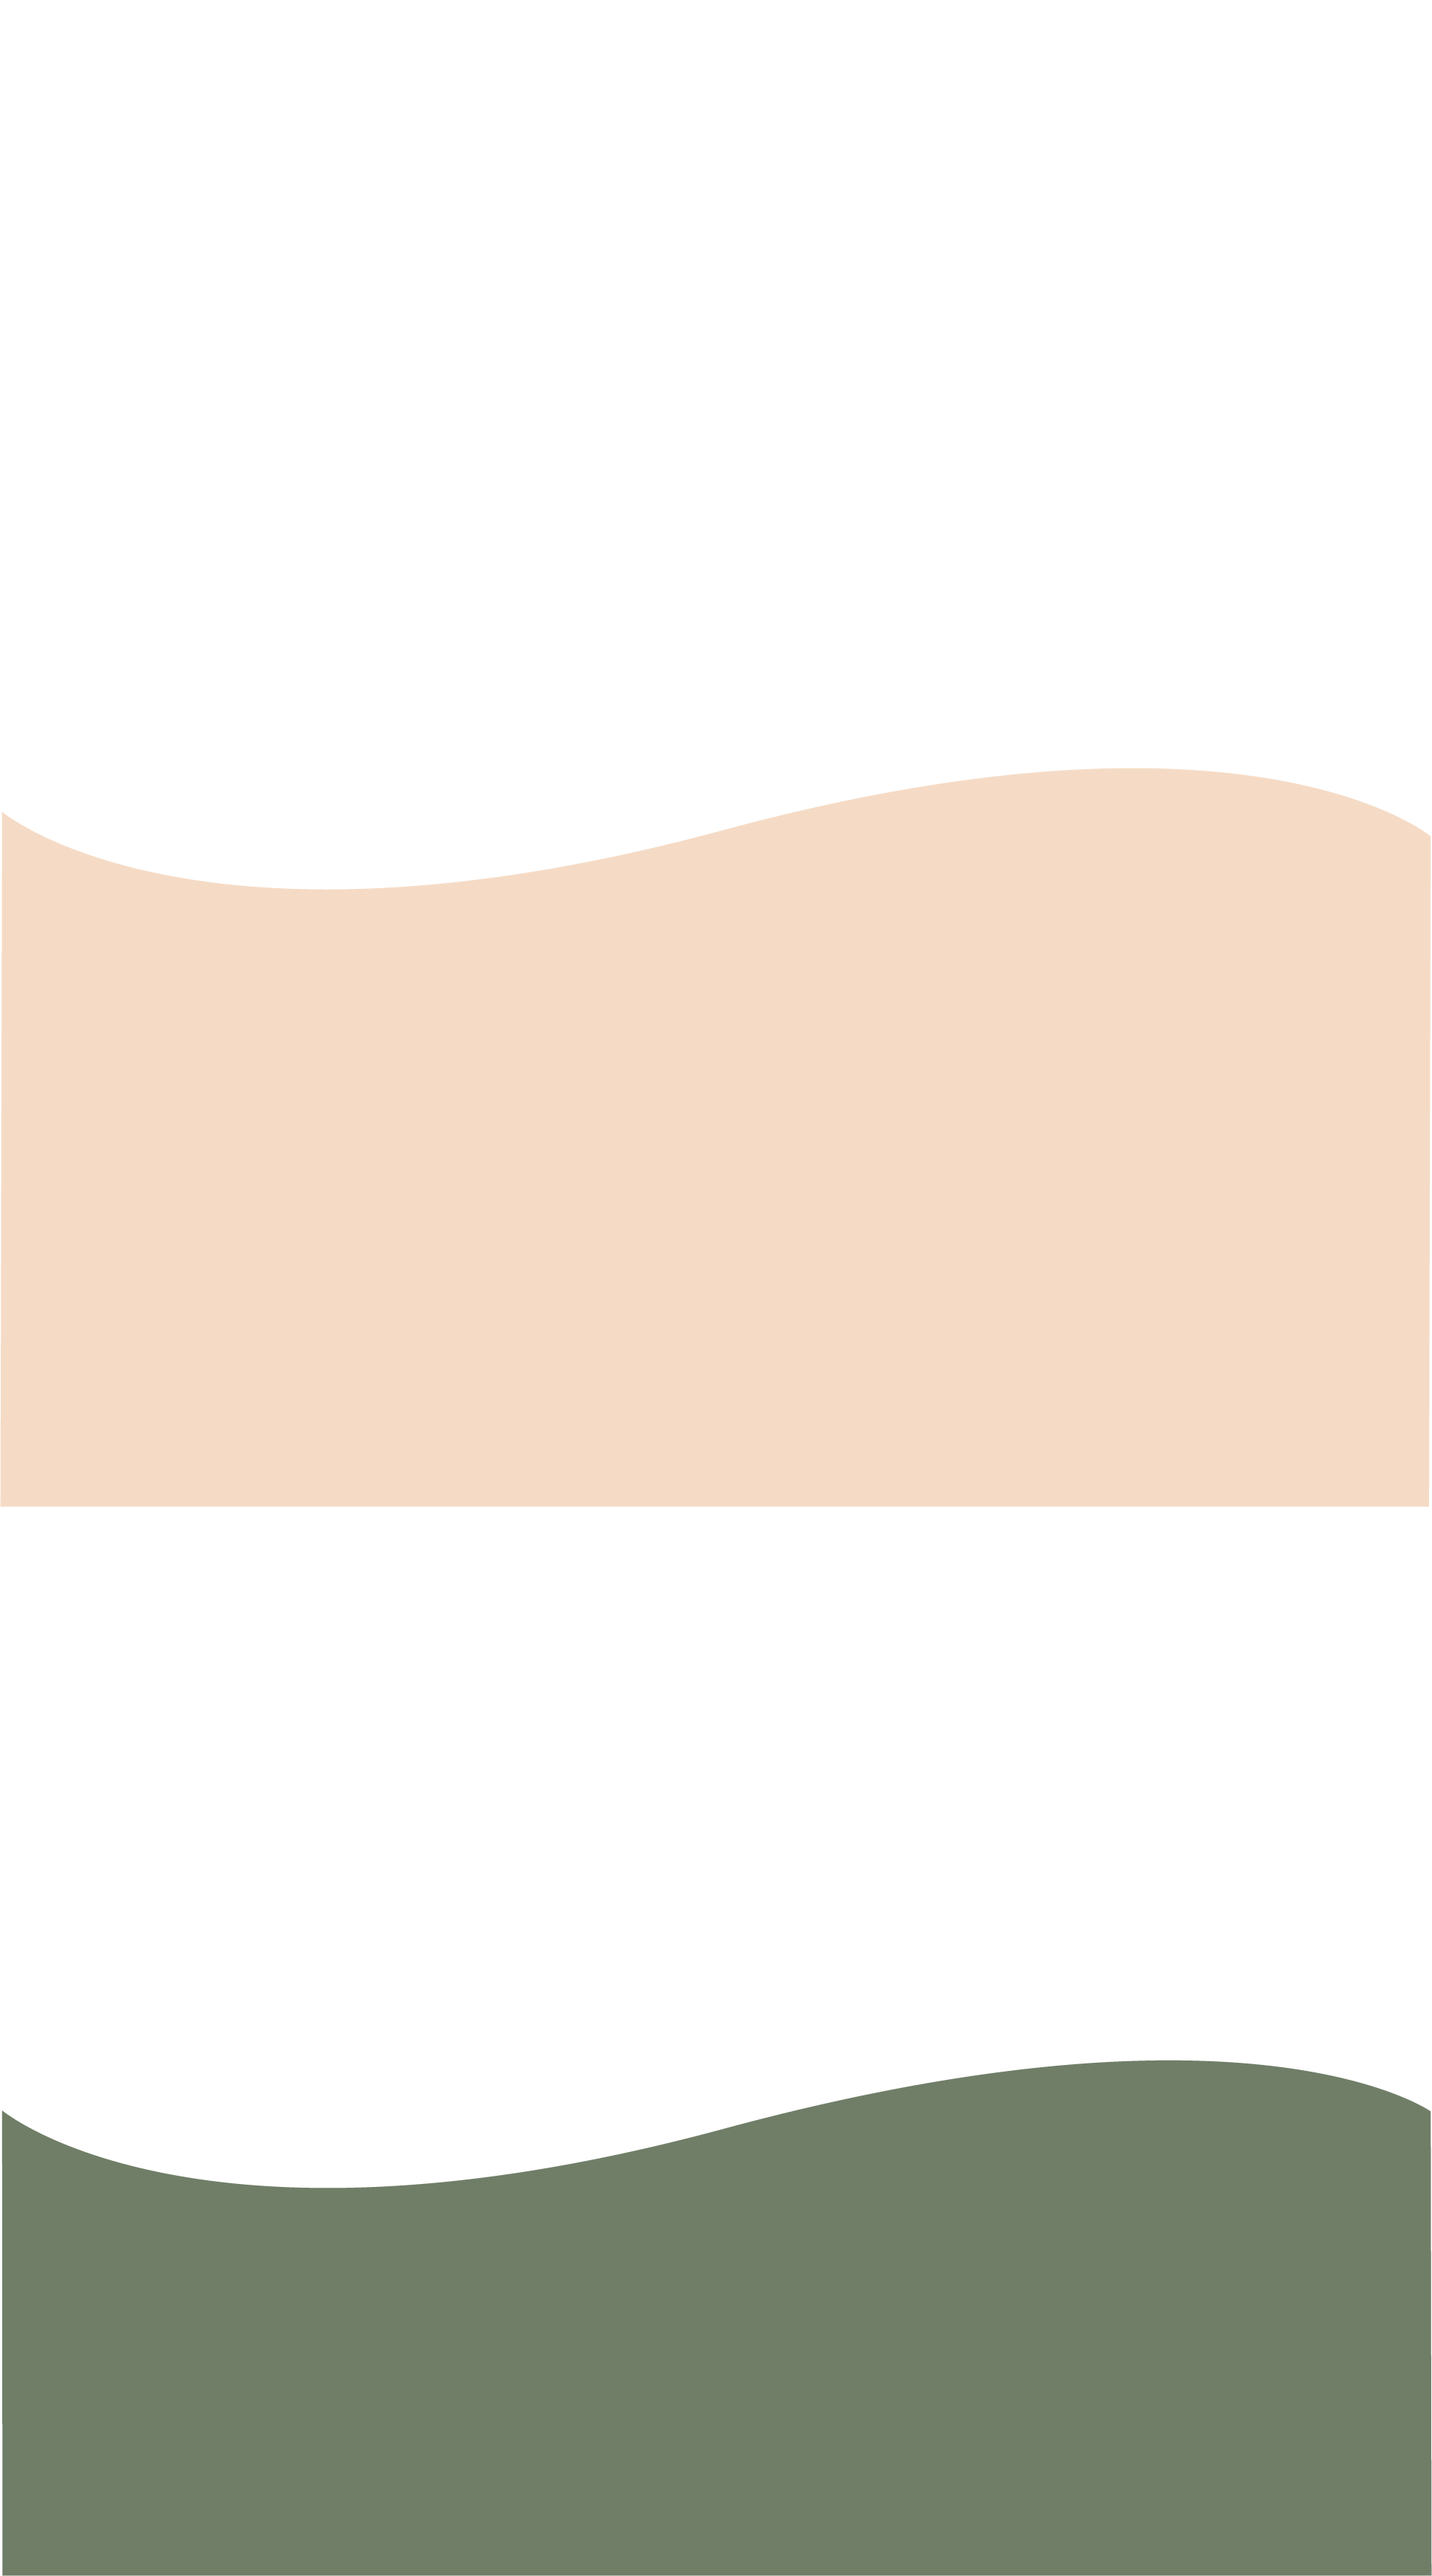
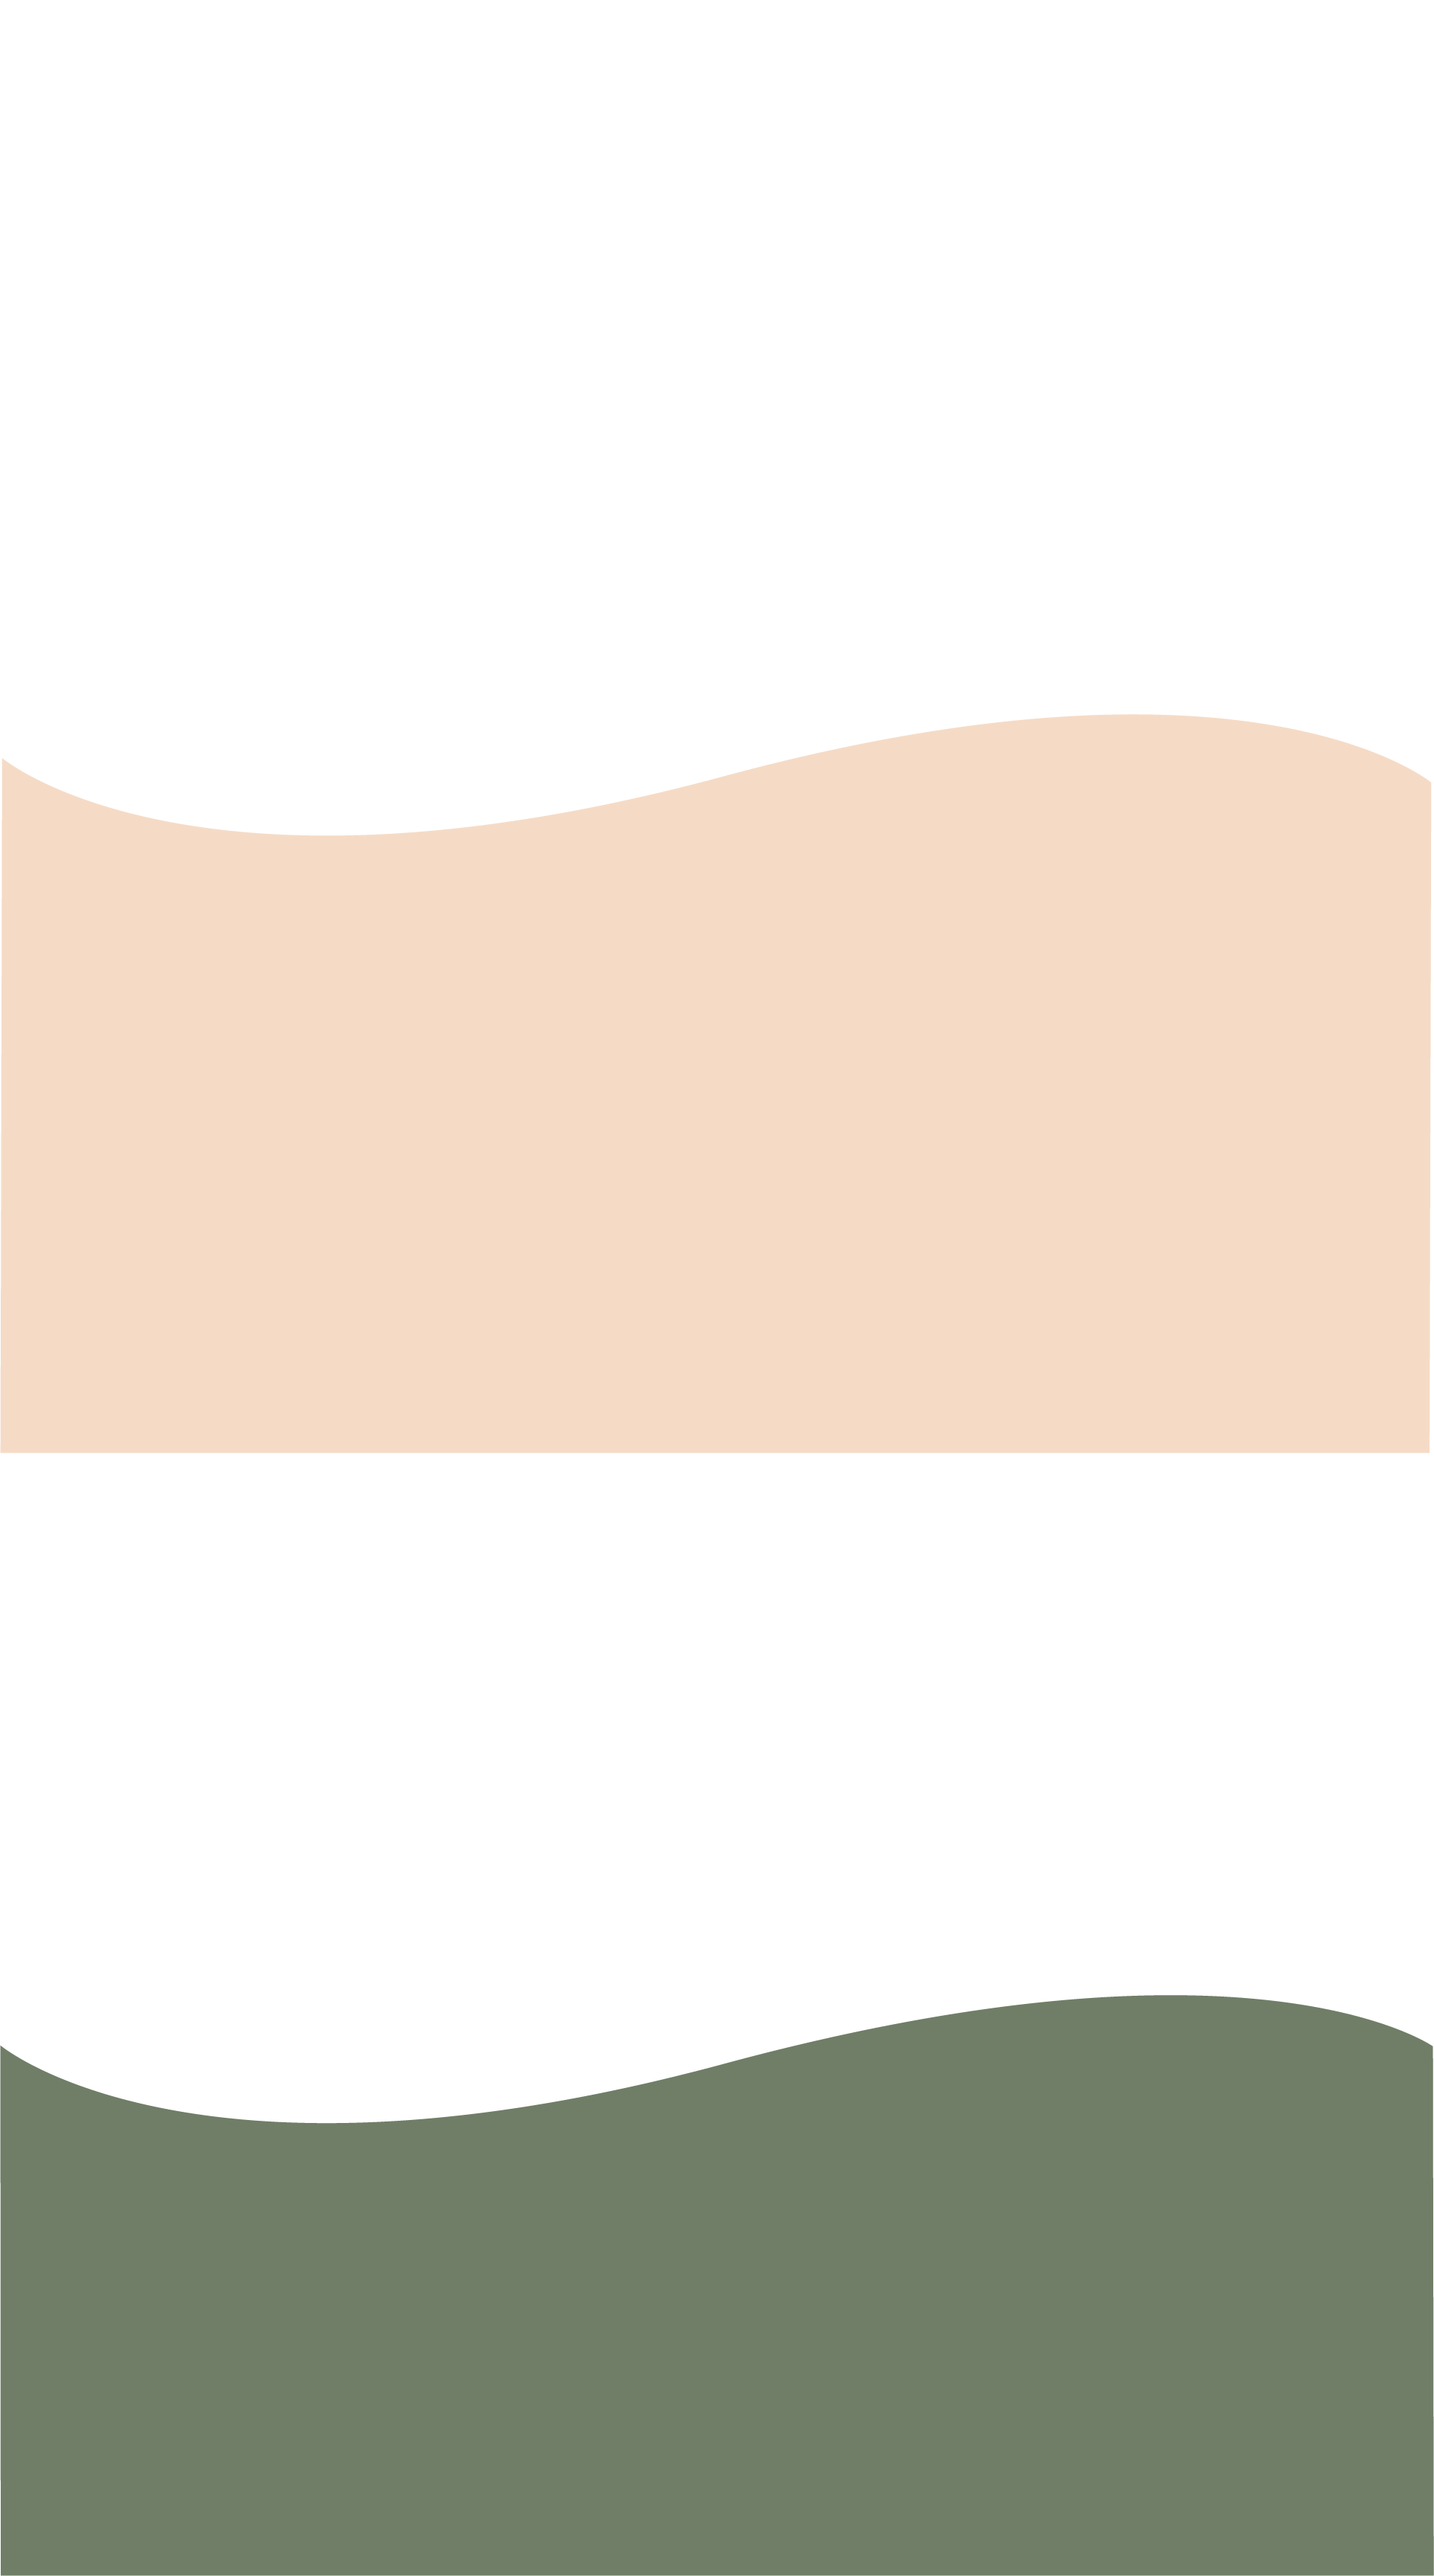
tried fixing upper layout of home page

Changed region(s): [[0.0, 0.2495, 1.0, 0.5925], [0.0, 0.7485, 1.0, 1.0]]

diff --git a/Website/css/base-layout-index.css b/Website/css/base-layout-index.css
@@ -7,7 +7,7 @@ body {
 	width: 100%;
 }
 .home-div1 {
-	padding: 5vw 0vw;
+	padding: 0.5vw 0vw 5vw 0vw;
 	height: 35vw;
 	display: flex;
 	justify-content: space-between;
